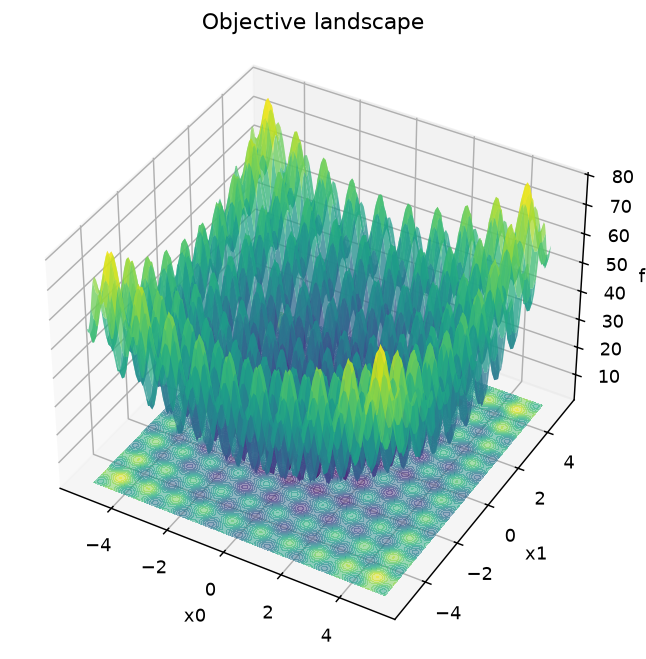
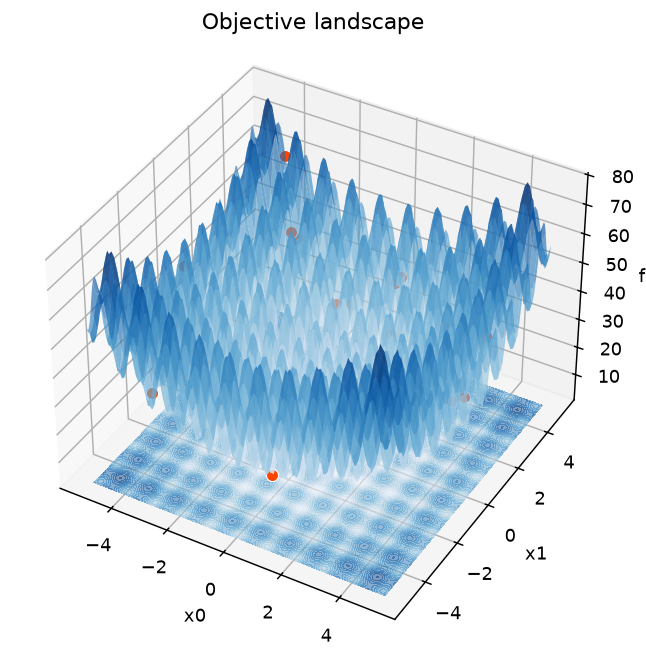
viz: recolor landscapes to Blues with high-contrast particles (visibility, esp. 3D)

diff --git a/python/turboswarm/viz.py b/python/turboswarm/viz.py
@@ -63,11 +63,12 @@ def compare(results, log=True):
     return ax
 
 
-def animate_swarm(result, function, bounds, interval=150):
+def animate_swarm(result, function, bounds, interval=150, cmap="Blues"):
     """Animate the 2D swarm over the contour map of `function`.
 
     `function`: callable that receives [x, y] and returns a float.
     `bounds`: [(xmin, xmax), (ymin, ymax)].
+    `cmap`: landscape colormap (a cool map so the particles stand out).
     Returns a FuncAnimation object (in a notebook: HTML(anim.to_jshtml())).
     """
     import numpy as np
@@ -88,8 +89,9 @@ def animate_swarm(result, function, bounds, interval=150):
     gz = np.vectorize(lambda a, b: function([a, b]))(gxx, gyy)
 
     fig, ax = plt.subplots()
-    ax.contourf(gxx, gyy, gz, levels=30, cmap="viridis")
-    scat = ax.scatter([], [], c="red", s=20, edgecolors="white")
+    ax.contourf(gxx, gyy, gz, levels=30, cmap=cmap)
+    scat = ax.scatter([], [], c="orangered", s=32, edgecolors="white",
+                      linewidths=0.6, zorder=3)
     ax.set_xlim(xmin, xmax)
     ax.set_ylim(ymin, ymax)
 
@@ -120,7 +122,7 @@ def _surface_grid(function, bounds, resolution):
     return gxx, gyy, gz
 
 
-def plot_surface(function, bounds, ax=None, points=None, cmap="viridis",
+def plot_surface(function, bounds, ax=None, points=None, cmap="Blues",
                  resolution=120, elev=38, azim=-60):
     """Render the objective landscape of a 2D `function` as a 3D surface.
 
@@ -139,7 +141,7 @@ def plot_surface(function, bounds, ax=None, points=None, cmap="viridis",
     if ax is None:
         fig = plt.figure(figsize=(8, 6))
         ax = fig.add_subplot(projection="3d")
-    ax.plot_surface(gxx, gyy, gz, cmap=cmap, alpha=0.75, linewidth=0,
+    ax.plot_surface(gxx, gyy, gz, cmap=cmap, alpha=0.65, linewidth=0,
                     antialiased=True, rstride=2, cstride=2)
     zmin = float(np.min(gz))
     # A filled contour projected on the floor adds depth.
@@ -149,8 +151,8 @@ def plot_surface(function, bounds, ax=None, points=None, cmap="viridis",
     if points is not None:
         pts = np.asarray(points, dtype=float)
         zs = np.array([function([px, py]) for px, py in pts])
-        ax.scatter(pts[:, 0], pts[:, 1], zs, c="crimson", s=28,
-                   edgecolors="white", depthshade=True)
+        ax.scatter(pts[:, 0], pts[:, 1], zs, c="orangered", s=45,
+                   edgecolors="white", linewidths=0.6, depthshade=False)
     ax.view_init(elev=elev, azim=azim)
     ax.set_xlabel("x0")
     ax.set_ylabel("x1")
@@ -159,7 +161,7 @@ def plot_surface(function, bounds, ax=None, points=None, cmap="viridis",
     return ax
 
 
-def animate_swarm_3d(result, function, bounds, interval=150, cmap="viridis",
+def animate_swarm_3d(result, function, bounds, interval=150, cmap="Blues",
                      resolution=120, rotate=True):
     """Animate the swarm in 3D over the objective surface of `function`.
 
@@ -206,9 +208,9 @@ def animate_swarm_3d(result, function, bounds, interval=150, cmap="viridis",
     ax.set_xlabel("x0")
     ax.set_ylabel("x1")
     ax.set_zlabel("f(x)")
-    scat = ax.scatter([], [], [], c="crimson", s=26, edgecolors="white",
-                      depthshade=True)
-    star = ax.scatter([], [], [], c="gold", s=160, marker="*",
+    scat = ax.scatter([], [], [], c="orangered", s=42, edgecolors="white",
+                      linewidths=0.6, depthshade=False)
+    star = ax.scatter([], [], [], c="gold", s=220, marker="*",
                       edgecolors="black", depthshade=False)
 
     def update(frame):